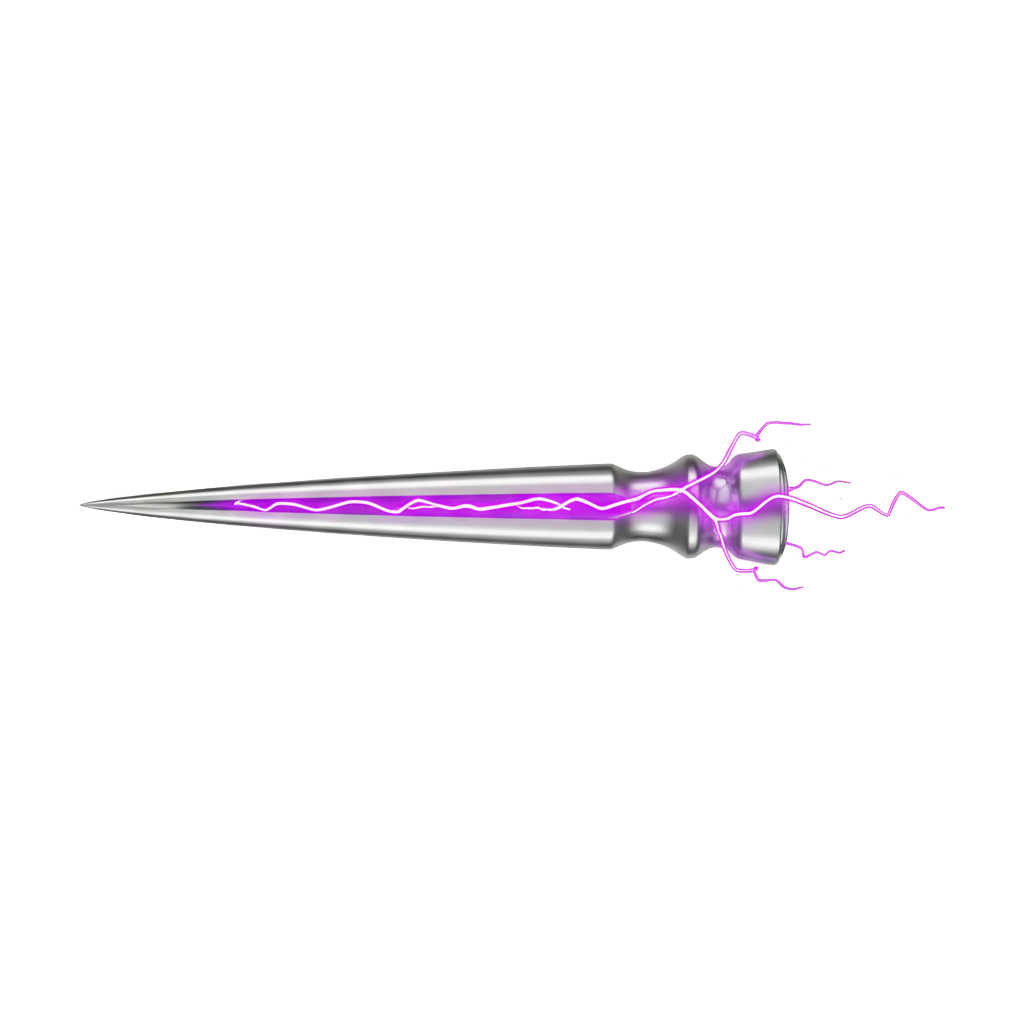
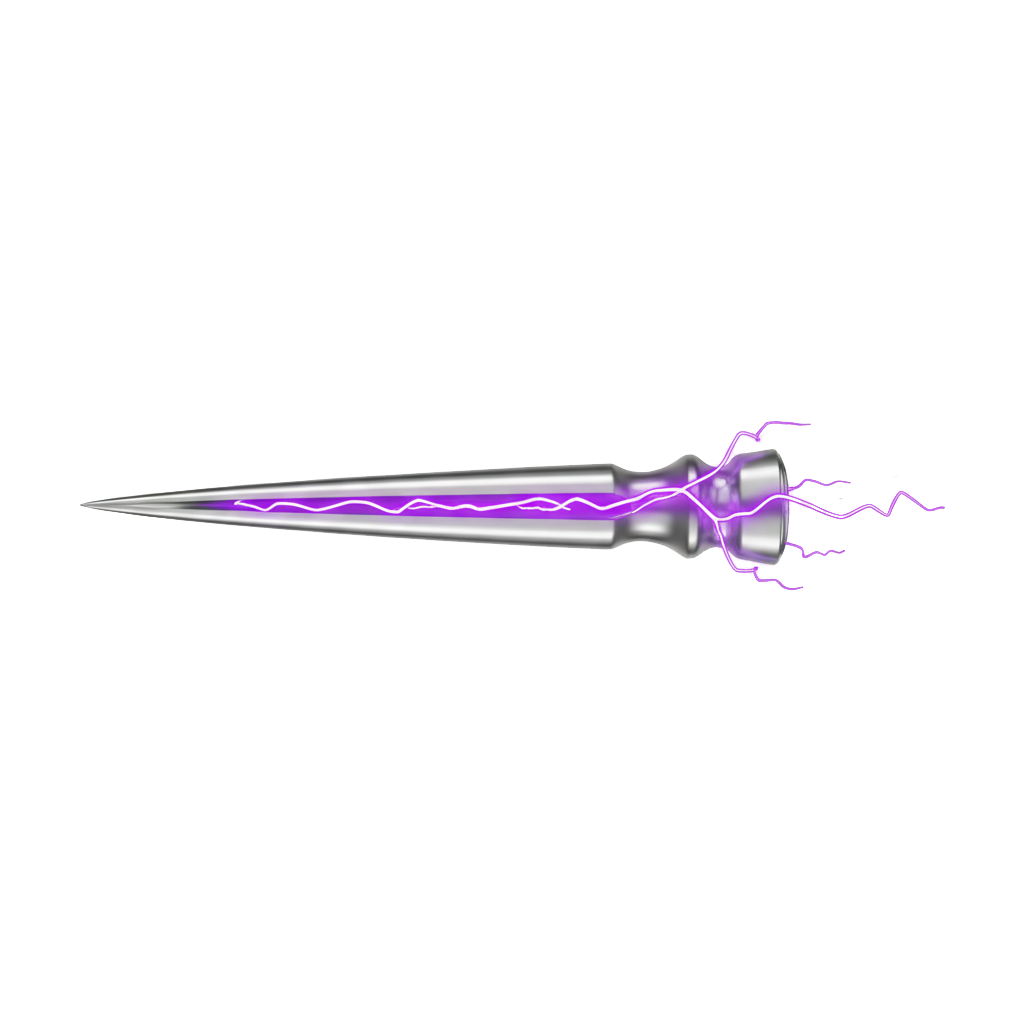
Apuntado Corregido

Changed region(s): [[0.2188, 0.4688, 0.7812, 0.5312]]

diff --git a/descon/server/behaviors/BaseAI.js b/descon/server/behaviors/BaseAI.js
@@ -81,7 +81,8 @@ module.exports = class BaseAI {
             this.enemy.rotation += Math.sign(diff) * step;
         }
 
-        if (this.applyCombatLogic(activeTarget, dist, this.enemy.rotation, now, io)) {
+        // v266.920: Pasar el targetAngle PURO para disparos precisos, ignorando la rotación visual 3D
+        if (this.applyCombatLogic(activeTarget, dist, targetAngle, now, io)) {
             return; // v266.696: Bloqueo de movimiento por estado de disparo/carga
         }
         this.applyMovementLogic(activeTarget, dist, targetAngle, now); // v266.690: Movimiento directo al target, rotación gradual visual